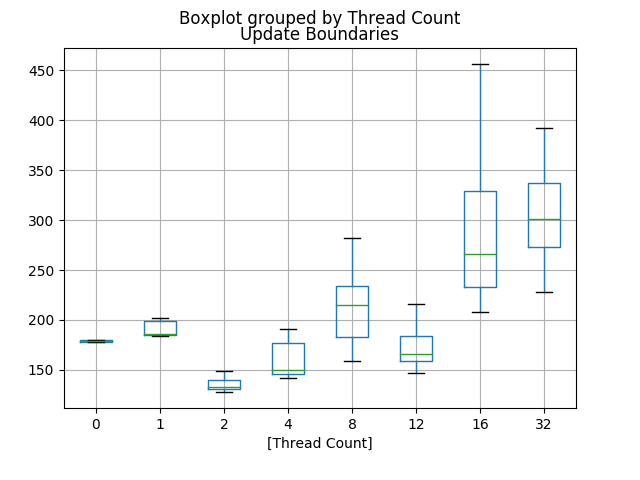
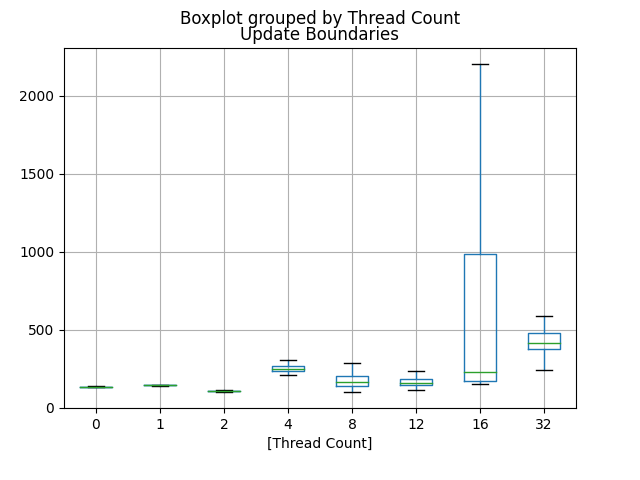
Also test for schedule

diff --git a/deqn/src/ExplicitSchemeRuntimeSchedule.C b/deqn/src/ExplicitSchemeRuntimeSchedule.C
@@ -1,0 +1,171 @@
+#include "ExplicitSchemeRuntimeSchedule.h"
+#include <omp.h>
+#include <iostream>
+#include <cstring>
+#include <math.h>
+#define POLY2(i, j, imin, jmin, ni) (((i) - (imin)) + (((j)-(jmin)) * (ni)))
+
+ExplicitSchemeRuntimeSchedule::ExplicitSchemeRuntimeSchedule(const InputFile* input, Mesh* m) :
+    mesh(m)
+{
+    // int nx = mesh->getNx()[0];
+    // int ny = mesh->getNx()[1];
+}
+
+void ExplicitSchemeRuntimeSchedule::doAdvance(const double dt)
+{
+    double start = omp_get_wtime();
+    diffuse(dt);
+    double end = omp_get_wtime();
+    printf("diffuse took time %f microseconds\n", (end - start) * 1e6);
+
+    start = omp_get_wtime();
+    reset();
+    end = omp_get_wtime();
+    printf("reset took time %f microseconds\n", (end - start) * 1e6);
+
+    start = omp_get_wtime();
+    updateBoundaries();
+    end = omp_get_wtime();
+    printf("updateBoundaries took time %f microseconds\n", (end - start) * 1e6);
+}
+
+void ExplicitSchemeRuntimeSchedule::updateBoundaries()
+{
+    reflectBoundaries();    
+}
+
+void ExplicitSchemeRuntimeSchedule::init()
+{
+    updateBoundaries();
+}
+
+void ExplicitSchemeRuntimeSchedule::reset()
+{
+    double start = omp_get_wtime();
+    double* u0 = mesh->getU0();
+    double* u1 = mesh->getU1();
+    int x_min = mesh->getMin()[0];
+    int x_max = mesh->getMax()[0];
+    int y_min = mesh->getMin()[1]; 
+    int y_max = mesh->getMax()[1]; 
+
+    int nx = mesh->getNx()[0]+2;
+
+//    #pragma omp parallel for firstprivate(u0, u1, x_min, x_max, y_min, y_max, nx) schedule(runtime)
+//    for(int k = y_min-1; k <= y_max+1; k++) {
+//        for(int j = x_min-1; j <=  x_max+1; j++) {
+//            int i = POLY2(j,k,x_min-1,y_min-1,nx);
+//            u0[i] = u1[i];
+//        }
+//    }
+    #pragma omp parallel for firstprivate(x_min, x_max, y_min, y_max, nx) schedule(runtime)
+    for(int k = y_min-1; k <= y_max+1; k++) {
+        int start = POLY2(x_min - 1,k,x_min-1,y_min-1,nx);
+        int end = POLY2(x_max + 1,k,x_min-1,y_min-1,nx);
+        std::memcpy(&u0[start], &u1[start], sizeof(double) * (end - start));
+    }
+    // mesh->switchMatricies();
+    // int *n = mesh->getNx();
+    // #pragma omp parallel for firstprivate(n, x_min, x_max, y_min, y_max, nx) schedule(runtime)
+    // for (int k = 0; k < (n[0] + 2) * (n[1] + 2); k++) {
+    //     u0[k] = u1[k];
+    // }
+    // int *n = mesh->getNx();
+    // std::memcpy(u1, u0, sizeof(double) * (n[0] + 2) * (n[1] + 2));
+}
+
+void ExplicitSchemeRuntimeSchedule::diffuse(double dt)
+{
+    double* u0 = mesh->getU0();
+    double* u1 = mesh->getU1();
+    int x_min = mesh->getMin()[0];
+    int x_max = mesh->getMax()[0];
+    int y_min = mesh->getMin()[1]; 
+    int y_max = mesh->getMax()[1]; 
+    double dx = mesh->getDx()[0];
+    double dy = mesh->getDx()[1];
+
+    int nx = mesh->getNx()[0]+2;
+
+    double rx = dt/(dx*dx);
+    double ry = dt/(dy*dy);
+//    int k, j;
+
+    #pragma omp parallel for firstprivate(nx, y_max, y_min, x_min, x_max, ry, rx) schedule(runtime)
+    for(int k=y_min; k <= y_max; k++) {
+        // #pragma omp simd
+        for(int j=x_min; j <= x_max; j++) {
+
+            int n1 = POLY2(j,k,x_min-1,y_min-1,nx);
+            int n2 = POLY2(j-1,k,x_min-1,y_min-1,nx);
+            int n3 = POLY2(j+1,k,x_min-1,y_min-1,nx);
+            int n4 = POLY2(j,k-1,x_min-1,y_min-1,nx);
+            int n5 = POLY2(j,k+1,x_min-1,y_min-1,nx);
+
+            u1[n1] = (1.0-2.0*rx-2.0*ry)*u0[n1] + rx*u0[n2] + rx*u0[n3]
+                + ry*u0[n4] + ry*u0[n5];
+        }
+    }
+}
+
+void ExplicitSchemeRuntimeSchedule::reflectBoundaries()
+{
+    double* u0 = mesh->getU0();
+    int x_min = mesh->getMin()[0];
+    int x_max = mesh->getMax()[0];
+    int y_min = mesh->getMin()[1]; 
+    int y_max = mesh->getMax()[1]; 
+
+    int nx = mesh->getNx()[0]+2;
+
+    #pragma omp parallel
+    #pragma omp single nowait
+    {
+         
+        /* top */
+        #pragma omp task firstprivate(x_min, x_max, y_min, y_max, nx)
+        {
+            for(int j = x_min; j <= x_max; j++) {
+                int n1 = POLY2(j, y_max, x_min-1, y_min-1, nx);
+                int n2 = POLY2(j, y_max+1, x_min-1, y_min-1, nx);
+
+                u0[n2] = u0[n1];
+            }
+        }
+    
+        /* right */
+        #pragma omp task firstprivate(x_min, x_max, y_min, y_max, nx)
+        {
+            for(int k = y_min; k <= y_max; k++) {
+                int n1 = POLY2(x_max, k, x_min-1, y_min-1, nx);
+                int n2 = POLY2(x_max+1, k, x_min-1, y_min-1, nx);
+
+                u0[n2] = u0[n1];
+            }
+        }
+        
+        /* bottom */
+        #pragma omp task firstprivate(x_min, x_max, y_min, y_max, nx)
+        {
+            for(int j = x_min; j <= x_max; j++) {
+                int n1 = POLY2(j, y_min, x_min-1, y_min-1, nx);
+                int n2 = POLY2(j, y_min-1, x_min-1, y_min-1, nx);
+
+                u0[n2] = u0[n1];
+            }
+        }
+        
+        /* left */
+        #pragma omp task firstprivate(x_min, x_max, y_min, y_max, nx)
+        {
+            for(int k = y_min; k <= y_max; k++) {
+                int n1 = POLY2(x_min, k, x_min-1, y_min-1, nx);
+                int n2 = POLY2(x_min-1, k, x_min-1, y_min-1, nx);
+
+                u0[n2] = u0[n1];
+            }
+        }
+        // default: std::cerr << "Error in reflectBoundaries(): unknown boundary id (" << boundary_id << ")" << std::endl;
+    }
+}

diff --git a/deqn/analysis.py b/deqn/analysis.py
@@ -87,7 +87,7 @@ def time_against_thread_count_by_function():
         df_for_thread_count["Thread Count"] = thread_count
         df = pd.concat([df, df_for_thread_count], ignore_index = True)
     print(df)
-    thread_means_df = df.groupby(["Thread Count"]).mean()
+    thread_means_df = df.groupby(["Thread Count"]).median()
     x = np.arange(len(thread_means_df))
     width = 0.2
     # plt.boxplot(thread_means_df["Diffuse"], vert=True)
@@ -132,7 +132,7 @@ def time_against_square_size_by_thread_count():
             df_for_thread_count["Square Size"] = square_size
             df_for_thread_count["Thread Count"] = thread_count
             df = pd.concat([df, df_for_thread_count], ignore_index = True)
-    df_by_size = df.groupby(["Square Size", "Thread Count"], as_index=False).mean()
+    df_by_size = df.groupby(["Square Size", "Thread Count"], as_index=False).median()
 
     # Timing graph
     for thread_count in thread_counts:
@@ -203,7 +203,7 @@ def time_against_square_size_by_tile_size():
             df_for_tile_size["Square Size"] = square_size
             df_for_tile_size["Tile Size"] = tile_size
             df = pd.concat([df, df_for_tile_size], ignore_index = True)
-    df_by_size = df.groupby(["Square Size", "Tile Size"], as_index=False).mean()
+    df_by_size = df.groupby(["Square Size", "Tile Size"], as_index=False).median()
 
     # Timing graph
     for tile_size in tile_sizes:
@@ -240,9 +240,54 @@ def time_against_square_size_by_tile_size():
     plt.savefig(f"plots/memory_bandwidth_against_square_size_by_tile_size.png")
     plt.clf()
 
+def time_against_square_size_by_schedule():
+    print("time_against_square_size_by_schedule")
+    df = pd.DataFrame({
+        "Square Size": pd.Series(dtype='int32'),
+        "Schedule": pd.Series(dtype=object),
+        "Iteration": pd.Series(dtype='int32'),
+        "Diffuse": pd.Series(dtype='float'),
+        "Reset": pd.Series(dtype='float'),
+        "Update Boundaries": pd.Series(dtype='float'),
+        "Total": pd.Series(dtype='float')
+        })
+    deqn_config_filepath = os.path.join("test", "tmp_square_by_threadcount.in")
+    
+    square_sizes = np.array([2**x for x in range(3, 14)])
+    schedules = ["static", "dynamic,1", "dynamic,8", "guided", "guided,8", "auto"]
+    for square_size in square_sizes:
+        for schedule in schedules:
+            # Generate the config file
+            print("Square size: ", square_size, "  Schedule: ", schedule)
+            deqn_config_file = DeqnConfigFile()
+            deqn_config_file.nx = square_size
+            deqn_config_file.ny = square_size
+            deqn_config_file.xmax = float(square_size)
+            deqn_config_file.ymax = float(square_size)
+            deqn_config_file.scheme = "explicit_runtime_schedule"
+            deqn_config_file.save_to_file(deqn_config_filepath)
+
+            df_for_schedule = run_deqn(os.path.join(os.path.pardir, deqn_config_filepath), {"OMP_SCHEDULE": schedule})
+            df_for_schedule["Square Size"] = square_size
+            df_for_schedule["Schedule"] = schedule
+            df = pd.concat([df, df_for_schedule], ignore_index = True)
+    df_by_size = df.groupby(["Square Size", "Schedule"], as_index=False).median()
+
+    # Timing graph
+    for schedule in schedules:
+        plt.plot(square_sizes, df_by_size[df_by_size["Schedule"] == schedule]["Total"], label=f"{schedule}")
+    plt.xlabel("Square edge length")
+    plt.ylabel("Total time (microseconds)")
+    plt.legend()
+    plt.xscale('log')
+    plt.yscale('log')
+    plt.savefig(f"plots/time_against_square_size_by_schedule.png")
+    plt.clf()
+
 if __name__ == "__main__":
     subprocess.run(["bash", "./clean_build.sh"])
     # run_deqn({"OMP_NUM_THREADS":"2"})
-    time_against_thread_count_by_function()
-    time_against_square_size_by_thread_count()
-    time_against_square_size_by_tile_size()
+    # time_against_thread_count_by_function()
+    # time_against_square_size_by_thread_count()
+    # time_against_square_size_by_tile_size()
+    time_against_square_size_by_schedule()

diff --git a/deqn/src/Diffusion.C b/deqn/src/Diffusion.C
@@ -3,6 +3,7 @@
 #include "ExplicitScheme.h"
 #include "ExplicitSchemeSingleThread.h"
 #include "ExplicitSchemeTiles.h"
+#include "ExplicitSchemeRuntimeSchedule.h"
 
 #include <iostream>
 #include <cstdlib>
@@ -20,6 +21,8 @@ Diffusion::Diffusion(const InputFile* input, Mesh* m) :
     } else if(scheme_str.compare("explicit_tiles") == 0) {
         int tile_size = input->getInt("tileSize", 64);
         scheme = new ExplicitSchemeTiles(input, mesh, tile_size);
+    } else if(scheme_str.compare("explicit_runtime_schedule") == 0) {
+        scheme = new ExplicitSchemeRuntimeSchedule(input, mesh);
     } else {
         std::cerr << "Error: unknown scheme \"" << scheme_str << "\"" << std::endl;
         exit(1);

diff --git a/deqn/src/ExplicitSchemeRuntimeSchedule.h b/deqn/src/ExplicitSchemeRuntimeSchedule.h
@@ -1,0 +1,22 @@
+#ifndef EXPLICIT_SCHEME_RUNTIME_SCHEDULE_H_
+#define EXPLICIT_SCHEME_RUNTIME_SCHEDULE_H_
+
+#include "Scheme.h"
+#include "InputFile.h"
+
+class ExplicitSchemeRuntimeSchedule : public Scheme {
+    private:
+        void updateBoundaries();
+        void reset();
+        void diffuse(double dt);
+        void reflectBoundaries();
+    protected:
+        Mesh* mesh;
+    public:
+        ExplicitSchemeRuntimeSchedule(const InputFile* input, Mesh* m);
+
+        void doAdvance(const double dt);
+
+        void init();
+};
+#endif
